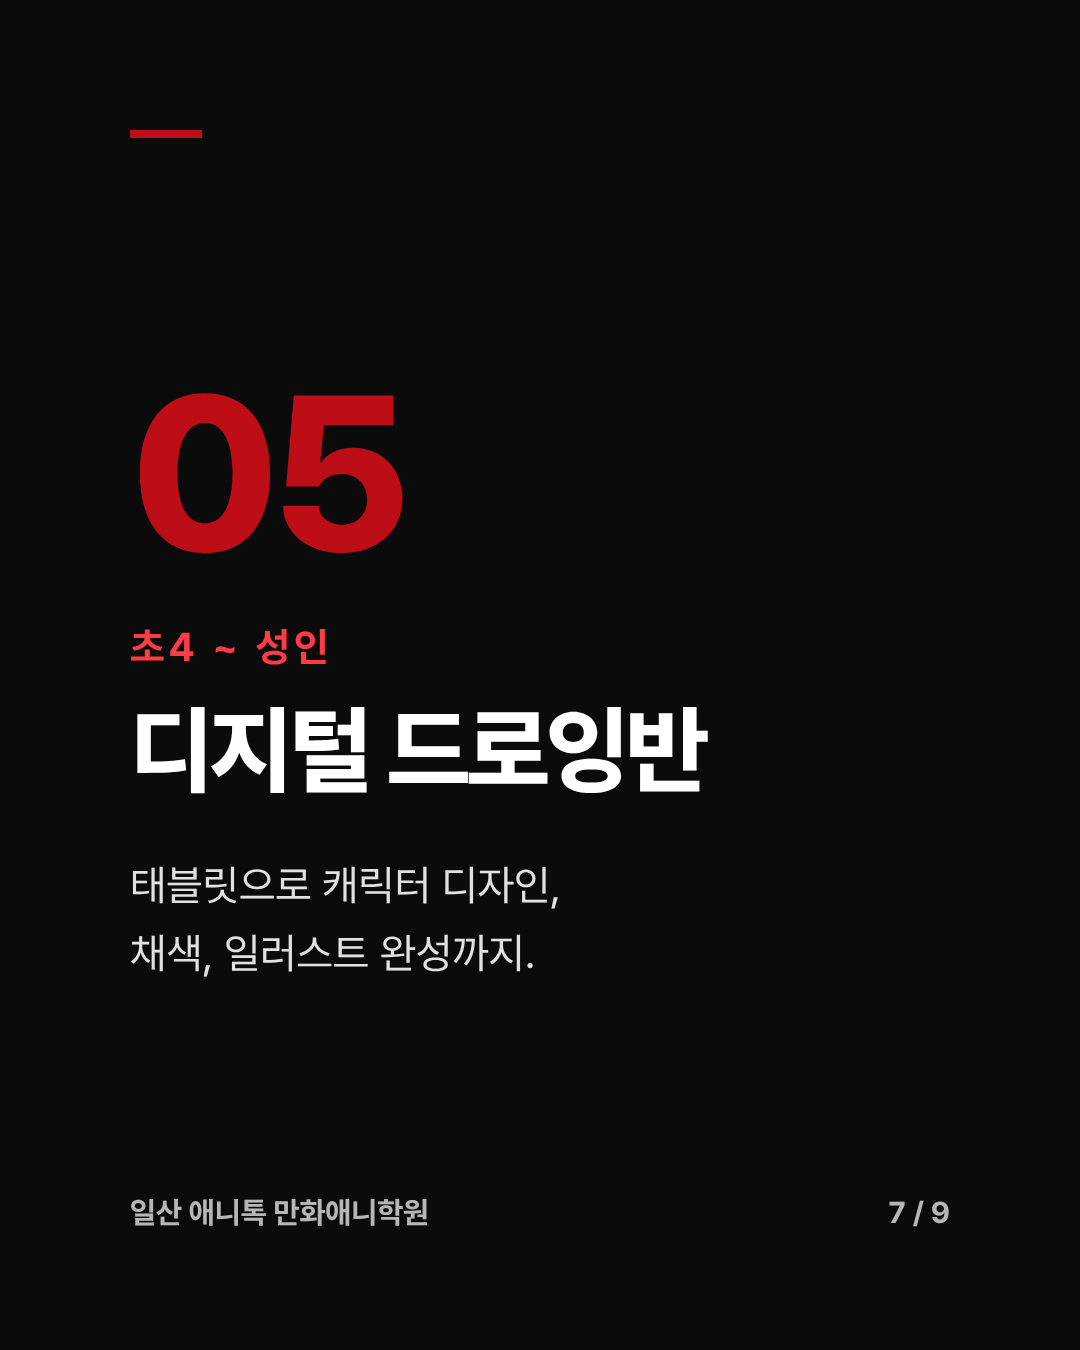
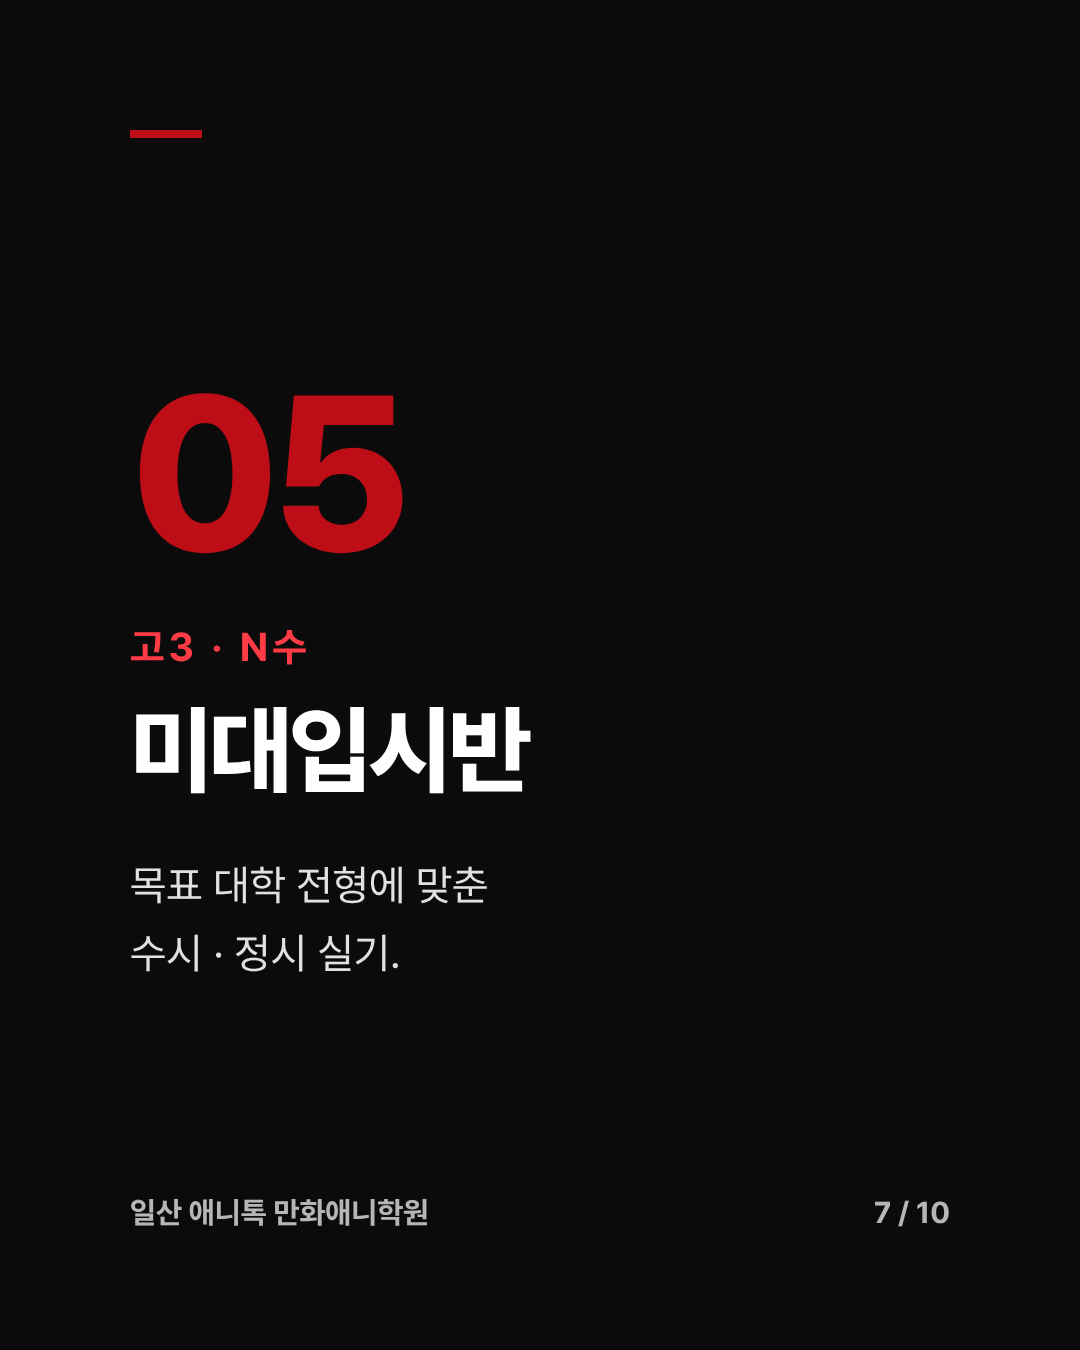
일산 애니톡 카드뉴스·대본·캡션의 반 구성을 실제 일산 사이트 기준으로 고친다
김포 지점 자료로 만들어 일산과 반 이름·학년이 달랐다.
ilsan.anitok.com 렌더링 결과 기준: 주니어반(초3~중3), 고등반, 성인취미반.

Claude-Session: https://claude.ai/code/session_01Cxq3a5DYWoaiz2bbUVQuD3

diff --git a/.claude/instagram/reels/2026-11-12-ilsan-anitok.md b/.claude/instagram/reels/2026-11-12-ilsan-anitok.md
@@ -8,10 +8,10 @@ hook: #20 Permission (직접 선정, hookscore.py 는 한국어 미지원)
 0:05          그 걱정이면 들어 보세요.
 0:08          상담 오시면 지금 실력부터 봅니다.
 0:10          그걸 보고 반이랑 진도를 정해요.
-0:13          초4부터는 주니어반.
+0:13          초3부터는 주니어반.
 0:15          좋아하는 캐릭터부터 그려요.
-0:18          중학생은 예비반.
-0:19          인체, 명암, 투시부터 다집니다.
+0:18          중학생은 중등반.
+0:19          콘티랑 채색까지 기본기를 쌓아요.
 0:22          잘 그려서 오는 게 아니라,
 0:24          와서 잘 그리게 되는 거예요.
 0:26  [CTA]   상담은 프로필 링크에서.
@@ -20,11 +20,10 @@ hook: #20 Permission (직접 선정, hookscore.py 는 한국어 미지원)
 ## 화면 자막
 - 0:00 잘 그려야 오는 곳? 아니요
 - 0:08 지금 실력부터 봅니다
-- 0:13 초4~6 주니어반
-- 0:18 중등 예비반: 인체·명암·투시
+- 0:13 초3~중3 주니어반
+- 0:18 중등반: 콘티·채색
 - 0:22 와서 잘 그리게 됩니다
 - 0:26 일산 애니톡 · 상담은 프로필 링크
 
-## 확인 필요
-- 일산 캠퍼스 반 구성이 사이트 자료(주니어반·중등 예비반)와 같은지
-- 프로필 링크가 상담 페이지로 연결되는지
+## 확인 완료 (2026-11-27)
+- 반 구성은 ilsan.anitok.com 실제 페이지 기준으로 고침 (주니어반 초3~중3: 초등반·중등반)

diff --git a/.claude/instagram/log.md b/.claude/instagram/log.md
@@ -1,4 +1,4 @@
 | 날짜 | 계정 | 형식 | 후킹 공식 | 첫 문장 | 파일 |
 |---|---|---|---|---|---|
 | 2026-11-12 | 일산 애니톡 | 릴스 30초 | #20 Permission | 만화학원, 잘 그려야 오는 곳 아닙니다. | reels/2026-11-12-ilsan-anitok.md |
-| 2026-11-12 | 일산 애니톡 | 카드뉴스 9장 | 커버: 그림 처음이어도 괜찮을까요? | carousels/2026-11-12-ilsan-classes/ |
+| 2026-11-12 | 일산 애니톡 | 카드뉴스 10장 (11-27 반 구성 수정) | 커버: 그림 처음이어도 괜찮을까요? | carousels/2026-11-12-ilsan-classes/ |
